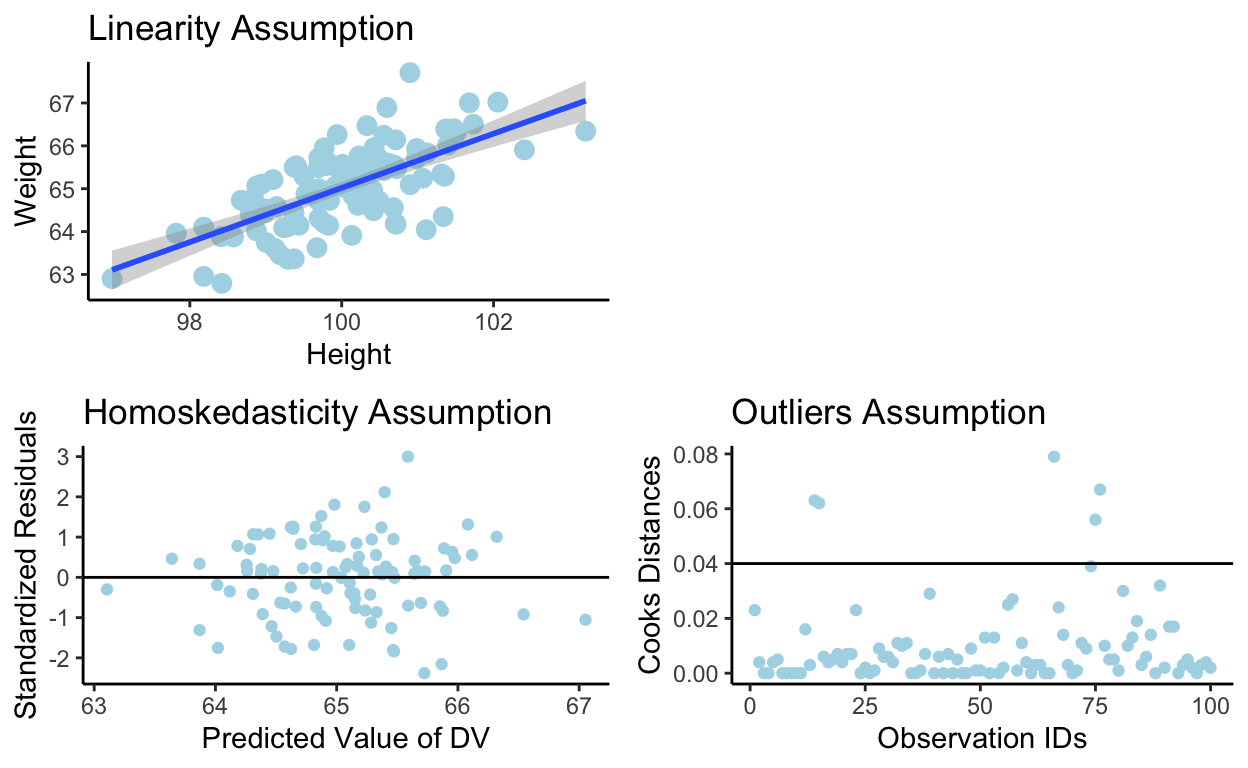
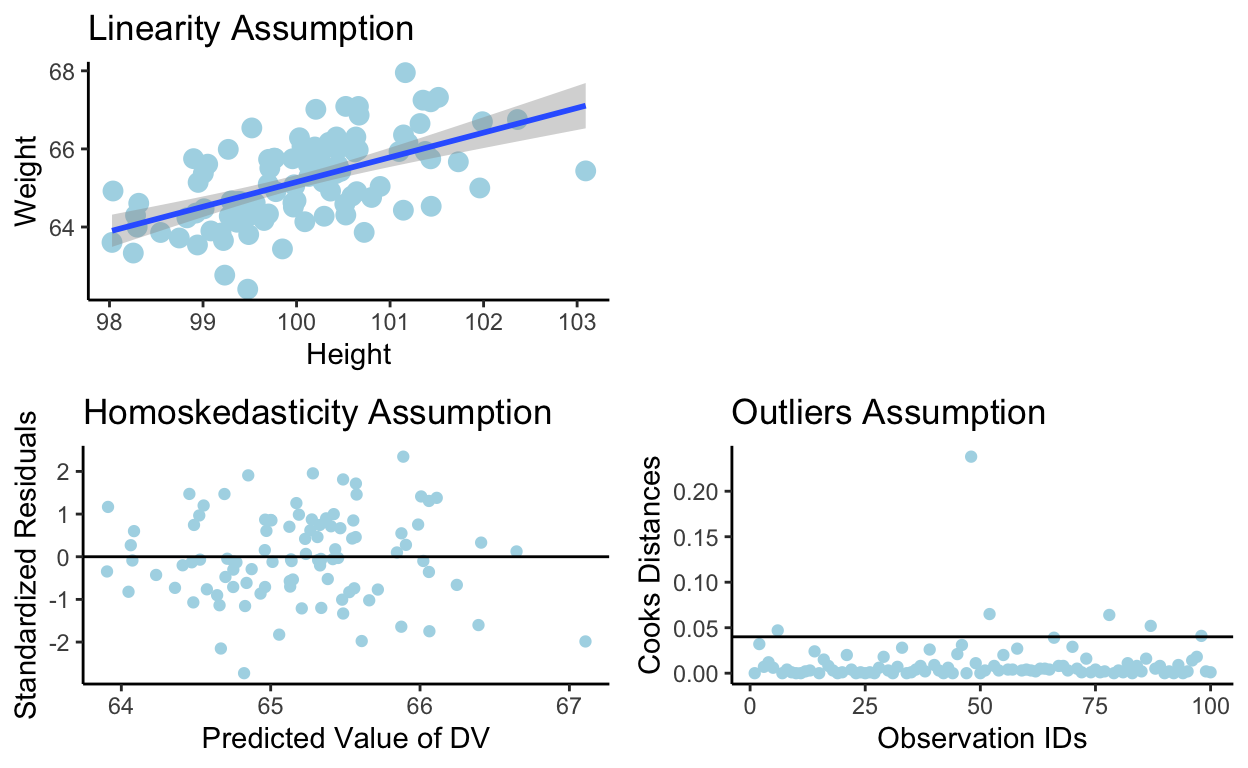
changes to app 3d plot

diff --git a/docs/effectsize_lm.html b/docs/effectsize_lm.html
@@ -93,8 +93,8 @@ code span.wa { color: #5e5e5e; font-style: italic; } /* Warning */
 
 
   <!--  https://schema.org/Article -->
-  <meta property="article:published" itemprop="datePublished" content="2023-06-26"/>
-  <meta property="article:created" itemprop="dateCreated" content="2023-06-26"/>
+  <meta property="article:published" itemprop="datePublished" content="2023-06-27"/>
+  <meta property="article:created" itemprop="dateCreated" content="2023-06-27"/>
   <meta name="article:author" content="Tehilla Ostrovsky"/>
 
   <!--  https://developers.facebook.com/docs/sharing/webmasters#markup -->
@@ -111,7 +111,7 @@ code span.wa { color: #5e5e5e; font-style: italic; } /* Warning */
   <!--radix_placeholder_rmarkdown_metadata-->
 
   <script type="text/json" id="radix-rmarkdown-metadata">
-  {"type":"list","attributes":{"names":{"type":"character","attributes":{},"value":["title","description","author","date","output","css"]}},"value":[{"type":"character","attributes":{},"value":["Effectsize(s) in Simple Linear Regression"]},{"type":"NULL"},{"type":"list","attributes":{},"value":[{"type":"list","attributes":{"names":{"type":"character","attributes":{},"value":["name"]}},"value":[{"type":"character","attributes":{},"value":["Tehilla Ostrovsky"]}]}]},{"type":"character","attributes":{},"value":["2023-06-26"]},{"type":"character","attributes":{},"value":["distill::distill_article"]},{"type":"character","attributes":{},"value":["my_css.css"]}]}
+  {"type":"list","attributes":{"names":{"type":"character","attributes":{},"value":["title","description","author","date","output","css"]}},"value":[{"type":"character","attributes":{},"value":["Effectsize(s) in Simple Linear Regression"]},{"type":"NULL"},{"type":"list","attributes":{},"value":[{"type":"list","attributes":{"names":{"type":"character","attributes":{},"value":["name"]}},"value":[{"type":"character","attributes":{},"value":["Tehilla Ostrovsky"]}]}]},{"type":"character","attributes":{},"value":["2023-06-27"]},{"type":"character","attributes":{},"value":["distill::distill_article"]},{"type":"character","attributes":{},"value":["my_css.css"]}]}
   </script>
   <!--/radix_placeholder_rmarkdown_metadata-->
   <!--radix_placeholder_navigation_in_header-->
@@ -2103,7 +2103,7 @@ code span.wa { color: #5e5e5e; font-style: italic; } /* Warning */
 <!--radix_placeholder_front_matter-->
 
 <script id="distill-front-matter" type="text/json">
-{"title":"Effectsize(s) in Simple Linear Regression","authors":[{"author":"Tehilla Ostrovsky","authorURL":"#","affiliation":"&nbsp;","affiliationURL":"#","orcidID":""}],"publishedDate":"2023-06-26T00:00:00.000+02:00","citationText":"Ostrovsky, 2023"}
+{"title":"Effectsize(s) in Simple Linear Regression","authors":[{"author":"Tehilla Ostrovsky","authorURL":"#","affiliation":"&nbsp;","affiliationURL":"#","orcidID":""}],"publishedDate":"2023-06-27T00:00:00.000+02:00","citationText":"Ostrovsky, 2023"}
 </script>
 
 <!--/radix_placeholder_front_matter-->
@@ -2157,7 +2157,7 @@ Statistik II
 <div class="d-byline">
   Tehilla Ostrovsky  
   
-<br/>2023-06-26
+<br/>2023-06-27
 </div>
 
 <div class="d-article">
@@ -2485,18 +2485,18 @@ lm(formula = Weight ~ Height, data = dat_rich)
 
 Residuals:
      Min       1Q   Median       3Q      Max 
--1.67964 -0.50972  0.09964  0.51650  2.11942 
+-2.41460 -0.62718 -0.05747  0.65679  2.06540 
 
 Coefficients:
             Estimate Std. Error t value Pr(&gt;|t|)    
-(Intercept)  1.75967    7.03212    0.25    0.803    
-Height       0.63260    0.07029    9.00 1.79e-14 ***
+(Intercept)   1.9039     9.2164   0.207    0.837    
+Height        0.6325     0.0921   6.867 6.02e-10 ***
 ---
 Signif. codes:  0 &#39;***&#39; 0.001 &#39;**&#39; 0.01 &#39;*&#39; 0.05 &#39;.&#39; 0.1 &#39; &#39; 1
 
-Residual standard error: 0.713 on 98 degrees of freedom
-Multiple R-squared:  0.4525,    Adjusted R-squared:  0.4469 
-F-statistic: 80.99 on 1 and 98 DF,  p-value: 1.792e-14</code></pre>
+Residual standard error: 0.8906 on 98 degrees of freedom
+Multiple R-squared:  0.3249,    Adjusted R-squared:  0.318 
+F-statistic: 47.16 on 1 and 98 DF,  p-value: 6.025e-10</code></pre>
 </div>
 <h3 id="lets-plot-all-the-figures-we-need-to-judge-of-the-linear-regression-assumptions-are-met.">Lets plot all the figures we need to judge of the Linear regression assumptions are met.</h3>
 <div class="layout-chunk" data-layout="l-body">
@@ -2557,25 +2557,25 @@ Call:
 lm(formula = scaled_dat_rich$Weight ~ scaled_dat_rich$Height)
 
 Residuals:
-    Min      1Q  Median      3Q     Max 
--1.7531 -0.5313  0.1019  0.5391  2.2083 
+     Min       1Q   Median       3Q      Max 
+-2.23307 -0.57707 -0.05161  0.60687  1.91631 
 
 Coefficients:
                         Estimate Std. Error t value Pr(&gt;|t|)    
-(Intercept)            -0.000602   0.074310  -0.008    0.994    
-scaled_dat_rich$Height  0.673298   0.074691   9.014 1.66e-14 ***
+(Intercept)            0.0003569  0.0826192   0.004    0.997    
+scaled_dat_rich$Height 0.5693236  0.0829973   6.860 6.26e-10 ***
 ---
 Signif. codes:  0 &#39;***&#39; 0.001 &#39;**&#39; 0.01 &#39;*&#39; 0.05 &#39;.&#39; 0.1 &#39; &#39; 1
 
-Residual standard error: 0.7431 on 98 degrees of freedom
-Multiple R-squared:  0.4533,    Adjusted R-squared:  0.4477 
-F-statistic: 81.26 on 1 and 98 DF,  p-value: 1.665e-14</code></pre>
+Residual standard error: 0.8262 on 98 degrees of freedom
+Multiple R-squared:  0.3244,    Adjusted R-squared:  0.3175 
+F-statistic: 47.05 on 1 and 98 DF,  p-value: 6.256e-10</code></pre>
 <div class="sourceCode">
 <pre class="sourceCode r"><code class="sourceCode r"><span><span class='fu'><a href='https://rdrr.io/r/stats/confint.html'>confint.lm</a></span><span class='op'>(</span><span class='va'>lm_z_2</span><span class='op'>)</span></span></code></pre>
 </div>
 <pre><code>                            2.5 %    97.5 %
-(Intercept)            -0.1480673 0.1468633
-scaled_dat_rich$Height  0.5250761 0.8215208</code></pre>
+(Intercept)            -0.1635982 0.1643121
+scaled_dat_rich$Height  0.4046183 0.7340290</code></pre>
 </div>
 <div class="sourceCode" id="cb20"><pre class="sourceCode r distill-force-highlighting-css"><code class="sourceCode r"></code></pre></div>
 <!--radix_placeholder_article_footer-->
